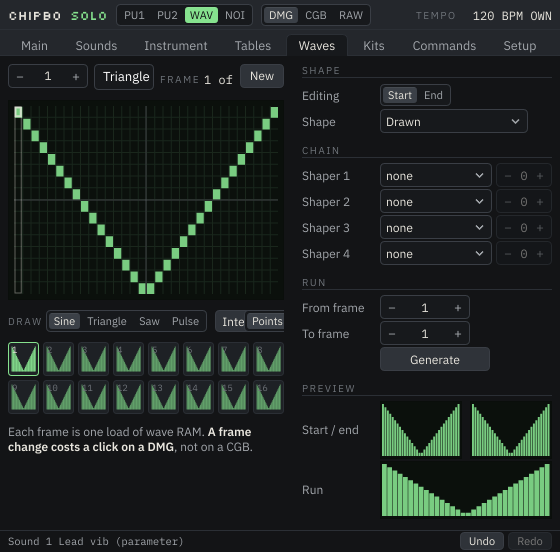
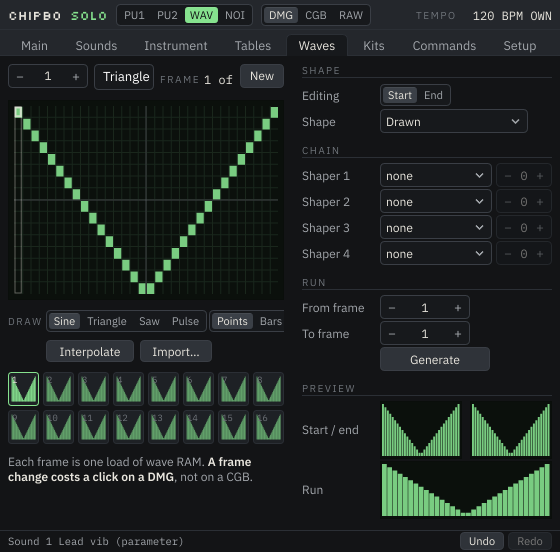
Waves: the tools row wraps its two buttons in a narrow window
So Solo's Waves page fits without a scrollbar; the main window's row is
as it was.

Claude-Session: https://claude.ai/code/session_017xjfhsuF4KGRWmf3FzZwSg

Changed region(s): [[0.0, 0.5543, 0.5161, 0.8931]]

diff --git a/Source/plugin/main/panels/WavesPanel.cpp b/Source/plugin/main/panels/WavesPanel.cpp
@@ -134,19 +134,34 @@ public:
         viewLabel_.setUpperCase(true);
         for (auto* c : std::initializer_list<Component*>{ &drawLabel_, &shape_, &interp_, &import_, &viewLabel_, &view_ }) addAndMakeVisible(c);
     }
-    int preferredHeight(int) override { return 26; }
+    /// Narrower than the row wants (a compact window, D-UI-45), the two
+    /// buttons take a second line.
+    static constexpr int kOneLine = 460;
+    int preferredHeight(int width) override { return width < kOneLine ? 26 + 4 + 26 : 26; }
     void resized() override
     {
         auto area = getLocalBounds();
-        drawLabel_.setBounds(area.removeFromLeft(38));
-        shape_.setBounds(area.removeFromLeft(shape_.preferredWidth()).withSizeKeepingCentre(shape_.preferredWidth(), shape_.preferredHeight()));
-        area.removeFromLeft(8);
-        interp_.setBounds(area.removeFromLeft(88).reduced(0, 2));
-        area.removeFromLeft(6);
-        import_.setBounds(area.removeFromLeft(72).reduced(0, 2));
-        view_.setBounds(area.removeFromRight(view_.preferredWidth()).withSizeKeepingCentre(view_.preferredWidth(), view_.preferredHeight()));
-        area.removeFromRight(6);
-        viewLabel_.setBounds(area.removeFromRight(34));
+        const bool wrap = getWidth() < kOneLine;
+        auto line = wrap ? area.removeFromTop(26) : area;
+        drawLabel_.setBounds(line.removeFromLeft(38));
+        shape_.setBounds(line.removeFromLeft(shape_.preferredWidth()).withSizeKeepingCentre(shape_.preferredWidth(), shape_.preferredHeight()));
+        line.removeFromLeft(8);
+        if (!wrap) {
+            interp_.setBounds(line.removeFromLeft(88).reduced(0, 2));
+            line.removeFromLeft(6);
+            import_.setBounds(line.removeFromLeft(72).reduced(0, 2));
+        }
+        view_.setBounds(line.removeFromRight(view_.preferredWidth()).withSizeKeepingCentre(view_.preferredWidth(), view_.preferredHeight()));
+        line.removeFromRight(6);
+        viewLabel_.setBounds(line.removeFromRight(34));
+        if (wrap) {
+            area.removeFromTop(4);
+            auto second = area.removeFromTop(26);
+            second.removeFromLeft(38);
+            interp_.setBounds(second.removeFromLeft(88).reduced(0, 2));
+            second.removeFromLeft(6);
+            import_.setBounds(second.removeFromLeft(72).reduced(0, 2));
+        }
     }
 private:
     TextLine drawLabel_, viewLabel_;
